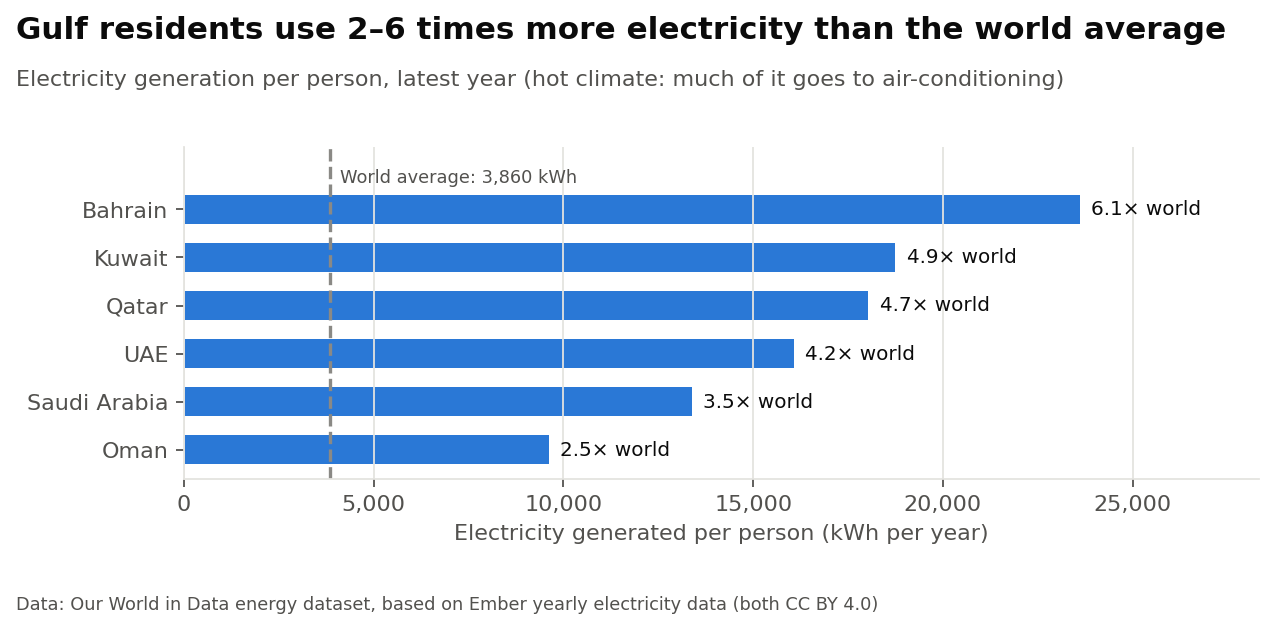
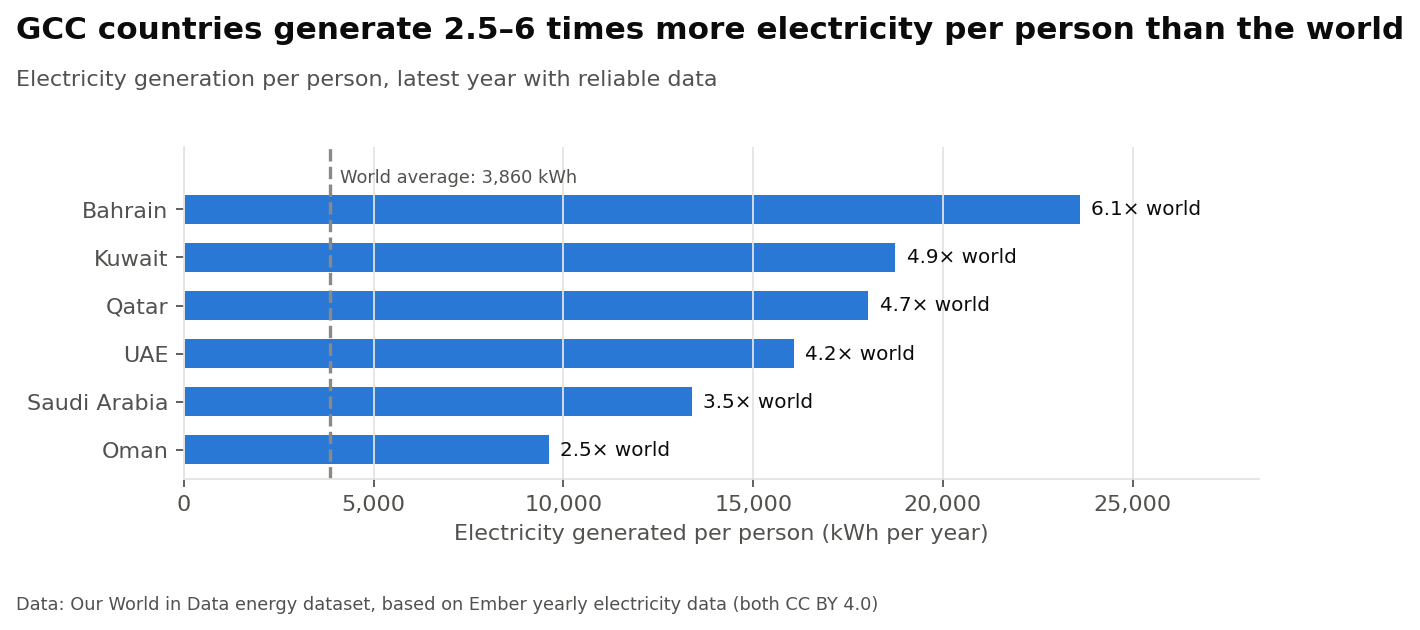
Re-verify claims: anomaly wording, generation-per-person wording, sources section
- Kuwait 2025 described as a potential data-quality anomaly flagged for review
- 'electricity generated per person' (not 'used'); removed unverified subtitle claim
- Sources section with quoted Saudi/UAE target wording; re-checked 27 Sep 2026

Claude-Session: https://claude.ai/code/session_01NvwLde3fTMJJqb5iqdeQwu

diff --git a/src/clean_data.py b/src/clean_data.py
@@ -8,8 +8,10 @@ What "cleaning" means here:
   1. Keep only the six GCC countries plus the World average.
   2. Keep only years from START_YEAR onwards.
   3. Keep only the columns listed in config.COLUMNS.
-  4. Flag suspicious rows where the latest year looks like a copy of the
-     year before (this happens when a source has not published new data yet).
+  4. Flag rows whose values are exactly the same as the year before.
+     This is a POTENTIAL data-quality anomaly (for example, a value carried
+     forward until new data is published). We flag it for review and leave
+     it out; we do not claim it is a confirmed error.
   5. Save a small, tidy CSV to data/processed/.
 """
 
@@ -51,7 +53,7 @@ def flag_repeated_years(df: pd.DataFrame) -> pd.DataFrame:
 
     It is True when every value in CHECK_COLUMNS is exactly the same as the
     previous year for the same country. Real data almost never repeats
-    exactly, so this usually means the number was carried forward.
+    exactly, so this is flagged as a potential anomaly for review.
     """
     df = df.copy()
     # groupby("country") so we only compare a country with itself.
@@ -70,8 +72,8 @@ def clean() -> pd.DataFrame:
 
     flagged = df[df["repeated_from_previous_year"]]
     if not flagged.empty:
-        print("Warning: these rows look copied from the previous year and will be")
-        print("excluded from the analysis:")
+        print("Potential data-quality anomaly: these rows repeat the previous year exactly.")
+        print("Flagged for review and excluded from the analysis:")
         print(flagged[["country", "year"]].to_string(index=False))
 
     config.PROCESSED_DATA_DIR.mkdir(parents=True, exist_ok=True)

diff --git a/src/make_figures.py b/src/make_figures.py
@@ -140,7 +140,7 @@ def fig_latest_ranking(latest: pd.DataFrame) -> None:
 
 
 # ---------------------------------------------------------------------------
-# Figure 3: electricity use per person vs the world average
+# Figure 3: electricity generated per person vs the world average
 # ---------------------------------------------------------------------------
 def fig_per_capita(latest: pd.DataFrame) -> None:
     d = latest[latest["country"].isin(config.GCC_COUNTRIES)]
@@ -158,8 +158,8 @@ def fig_per_capita(latest: pd.DataFrame) -> None:
     ax.set_xlabel("Electricity generated per person (kWh per year)")
     ax.grid(axis="y", visible=False)
     ax.set_xlim(0, d["per_capita_electricity"].max() * 1.2)
-    finish(fig, "Gulf residents use 2–6 times more electricity than the world average",
-              "Electricity generation per person, latest year (hot climate: much of it goes to air-conditioning)")
+    finish(fig, "GCC countries generate 2.5–6 times more electricity per person than the world",
+              "Electricity generation per person, latest year with reliable data")
     save(fig, "03_electricity_per_person.png")
 
 

diff --git a/src/analysis.py b/src/analysis.py
@@ -12,7 +12,7 @@ import config
 
 
 def load_clean() -> pd.DataFrame:
-    """Read the cleaned data and remove rows flagged as copied."""
+    """Read the cleaned data and leave out rows flagged as potential anomalies."""
     if not config.CLEAN_DATA_FILE.exists():
         raise FileNotFoundError(
             f"{config.CLEAN_DATA_FILE} not found. Run  python src/clean_data.py  first."

diff --git a/README.md b/README.md
@@ -27,7 +27,7 @@ This is a small, reproducible data-analysis project using open data. It download
 | Bahrain | 0.3% | 23,615 | no change |
 
 - **Five of six countries still generate more than 95% of their electricity from gas and oil.** The UAE is the exception, mainly because of the Barakah nuclear power plant (first electricity in 2020, fourth reactor in 2024).
-- **Electricity use per person is 2.5–6 times the world average** (world: ~3,860 kWh). Total generation also grew by 59–167% between 2010 and the latest year, so new clean electricity first has to keep up with that growth.
+- **Electricity generated per person is 2.5–6 times the world average** (world: ~3,860 kWh). Total generation also grew by 59–167% between 2010 and the latest year, so new clean electricity first has to keep up with that growth.
 - **Saudi Arabia's official target is roughly 50% renewable electricity by 2030.** From 2.2% in 2024, that needs about **8 percentage points per year**. The average over 2021–2024 was about **0.6 points per year**. New power plants could change this pace quickly. This analysis only measures the past pace and does not predict the future.
 - **The UAE targets 35% clean electricity generation by 2031** and was at 31.7% in 2024. It needs about 0.5 points per year. Most of its recent growth came from nuclear reactors that are now all running, so future growth has to come from solar.
 
@@ -90,7 +90,7 @@ gulf-electricity-transition/
 ## Method
 
 1. **Filter:** keep the 6 GCC countries plus the World, years 2010 onwards and 13 of the ~130 columns.
-2. **Quality check:** flag rows where the main values are *exactly* the same as the previous year. One row, Kuwait 2025, was flagged as carried forward and excluded.
+2. **Quality check:** flag rows where the main values are *exactly* the same as the previous year. One row, Kuwait 2025, matched 2024 exactly. This is a **potential data-quality anomaly, detected and flagged for review**. The source does not say why the values repeat, so the row is left out of the analysis rather than treated as a confirmed error.
 3. **Describe:** compare the first year (2010) with the latest year for each country.
 4. **Target check:** `required pace = (target − current) ÷ years left` and `recent pace = change over the last 3 years ÷ 3`.
 
@@ -107,9 +107,19 @@ gulf-electricity-transition/
 ## Possible next steps
 
 - Add the other GCC targets after checking each one against an official source.
-- Add monthly data (Ember publishes monthly electricity data) to look at summer peaks from air-conditioning.
+- Add monthly data (Ember publishes monthly electricity data) to look at seasonal patterns such as summer peaks.
 - Compare with installed solar capacity data (IRENA) to separate "capacity built" from "electricity produced".
 - Build a small interactive dashboard (e.g. Streamlit) on top of the same cleaned data.
+
+## Sources
+
+- Our World in Data, *Energy dataset* (CC BY 4.0): https://github.com/owid/energy-data
+- Ember, *Yearly Electricity Data* (CC BY 4.0): https://ember-energy.org/data/yearly-electricity-data/
+- Saudi Ministry of Energy, *Renewable Energy* programme page: "renewables which are going to make up around 50% of the energy mix used to produce electricity by 2030": https://www.moenergy.gov.sa/en/eco-system/programs/renewable-energy
+- UAE Government portal, *UAE Energy Strategy 2050*: "Increase the share of clean energy generation to 35% by 2031": https://u.ae/en/about-the-uae/strategies-initiatives-and-awards/strategies-plans-and-visions/environment-and-energy/uae-energy-strategy-2050
+- NucNet, Barakah fourth reactor begins commercial operation (September 2024): https://www.nucnet.org/news/uae-hails-historic-milestone-as-fourth-and-final-reactor-begins-operation-9-4-2024
+
+Targets and data were re-checked on 27 September 2026.
 
 ## Credits
 

diff --git a/LEARNING_GUIDE.md b/LEARNING_GUIDE.md
@@ -83,7 +83,7 @@ run_all.py
    ├─ 1. download_data.download()      internet ──► data/raw/owid-energy-data.csv   (23,000+ rows × 130 columns)
    │
    ├─ 2. clean_data.clean()            keep 7 places, years ≥ 2010, 13 columns
-   │                                   flag rows copied from last year (Kuwait 2025)
+   │                                   flag rows identical to last year (Kuwait 2025)
    │                                   ──► data/processed/gcc_electricity.csv      (109 rows)
    │
    ├─ 3. analysis.*                    drop flagged rows
@@ -119,7 +119,7 @@ So Saudi Arabia would need a pace roughly **12 times faster** than 2021–2024. 
 - `.shift(1)` moves values down one row, so each row can "see" last year's value.
 - If generation, renewables share and low-carbon share are *all exactly equal*, the row is flagged.
 
-Kuwait 2025 was flagged. Its values are identical to 2024, which almost never happens with real measurements.
+Kuwait 2025 was flagged. Its values are identical to 2024, which is unusual for real measurements. We call it a **potential data-quality anomaly, flagged for review**, not a confirmed error. We cannot know *why* the numbers repeat (a placeholder until new data arrives? a genuine coincidence?) unless the source says so. Leaving it out is the cautious choice. Always describe what you **observed**, not what you **guess**.
 
 ## 8. How to run it
 
@@ -167,7 +167,7 @@ Practise answering these **out loud, without looking**:
 4. What is the difference between "renewables" and "low-carbon"? Why did you use low-carbon for the UAE?
 5. What is the difference between a *percentage* and a *percentage point*?
 6. Why is the raw data not uploaded to GitHub?
-7. What problem did you find in the data, and how did your code detect it?
+7. What anomaly did your code flag in the data, how did it detect it, and why do you call it an *anomaly* rather than an *error*?
 8. Explain the required-pace calculation for Saudi Arabia with the actual numbers.
 9. Why is the UAE's "if recent pace continued" line misleading?
 10. Why didn't you use machine learning? When *would* machine learning make sense for this topic?

diff --git a/docs/data_dictionary.md b/docs/data_dictionary.md
@@ -22,7 +22,7 @@ Descriptions come from the official OWID codebook (`owid-energy-codebook.csv`). 
 
 | Column | Meaning |
 |---|---|
-| `repeated_from_previous_year` | `True` if generation, renewables share and low-carbon share are all *exactly* equal to the previous year for that country. This suggests the value was carried forward, so the row is excluded from the analysis. |
+| `repeated_from_previous_year` | `True` if generation, renewables share and low-carbon share are all *exactly* equal to the previous year for that country. This is a potential data-quality anomaly (the values may have been carried forward), so the row is flagged for review and excluded from the analysis. It is not treated as a confirmed error. |
 
 ## Units in plain words
 
